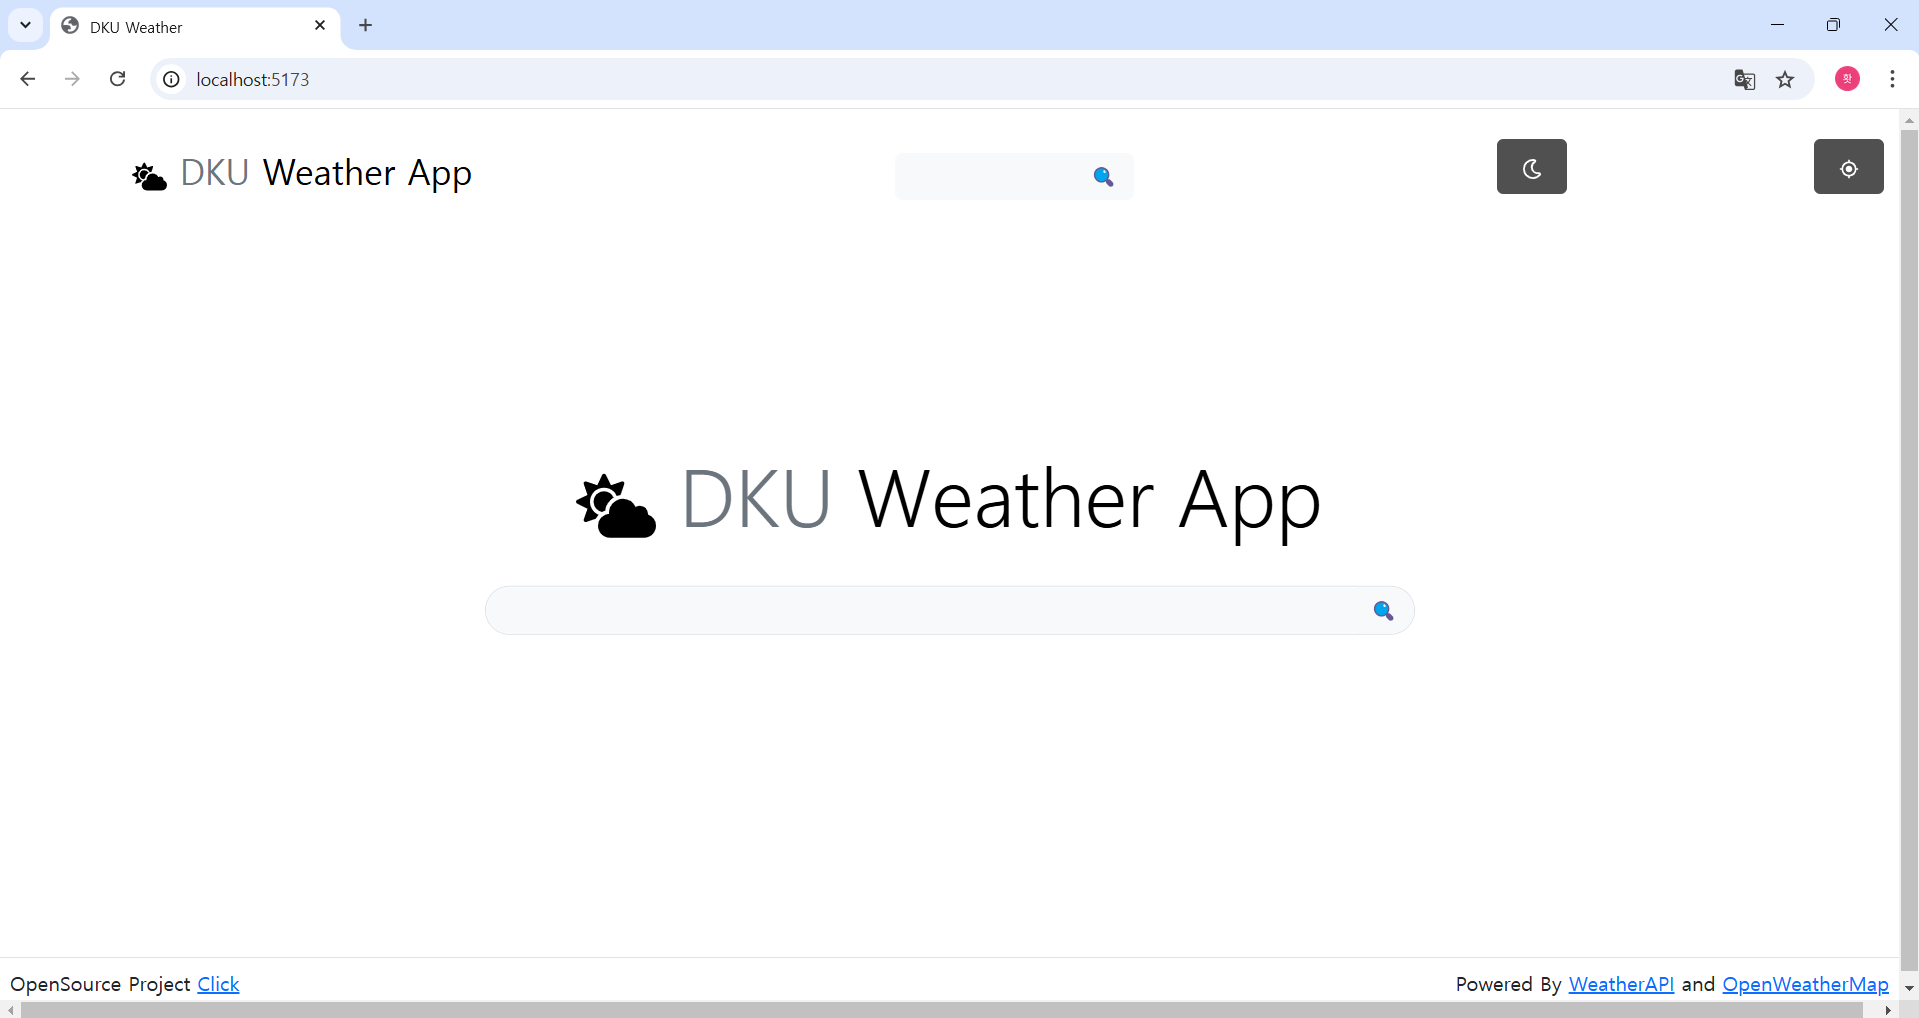
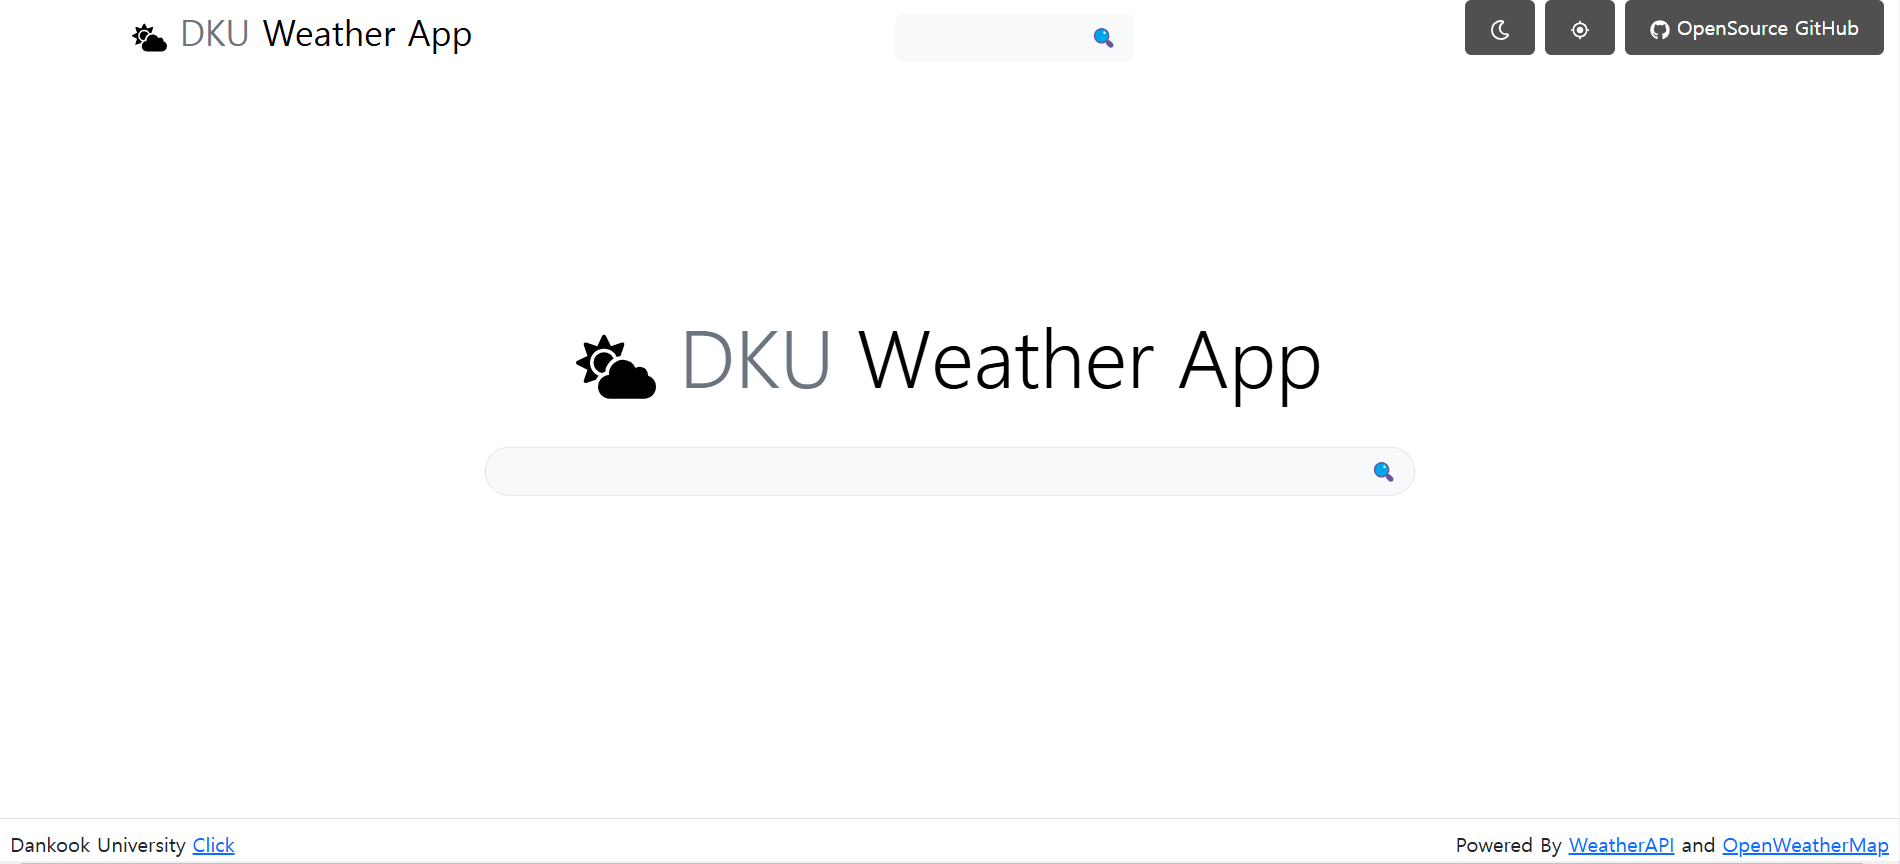
detail

diff --git a/src/App.jsx b/src/App.jsx
@@ -1,3 +1,4 @@
+import { FaGithub } from "react-icons/fa";
 import { MdGpsFixed } from "react-icons/md";
 import { FaRegMoon } from "react-icons/fa";
 import { FaSun } from "react-icons/fa6";
@@ -50,26 +51,40 @@ const App = () => {
 
   return (
     <div className={isDarkMode ? 'app dark-mode' : 'app light-mode'}>
-      {/* Main Row with TopBar and Toggle Button */}
-      <div className="row align-items-center">
-        <div className="col-8">
-          {/* TopBar Component */}
-          <TopBar changeData={(dd) => setDta(dd)} classDetails="d-block" />
-        </div>
+  {/* Main Row with TopBar and Toggle Button */}
+  <div className="row align-items-center">
+    <div className="col-8">
+      {/* TopBar Component */}
+      <TopBar changeData={(dd) => setDta(dd)} classDetails="d-block" />
+    </div>
 
-        <div className="col-2 text-end">
-          {/* Dark/Light Mode Toggle Button */}
-          <button onClick={toggleMode} className="toggle-btn">
-            {isDarkMode ? <FaSun /> : <FaRegMoon />}
-          </button>
-        </div>
+    <div className="col-4 text-end">
+      <div className="d-inline-block me-2">
+        {/* Dark/Light Mode Toggle Button */}
+        <button onClick={toggleMode} className="toggle-btn">
+          {isDarkMode ? <FaSun /> : <FaRegMoon />}
+        </button>
+      </div>
 
-        <div className="col-2 text-end">
-          {/* GPS Button */}
-          <button onClick={fetchWeatherByGPS} className="toggle-btn" disabled={loading}>
-            {loading ? 'Loading...' : <MdGpsFixed />}
-          </button>
-        </div>
+      <div className="d-inline-block me-2">
+        {/* GPS Button */}
+        <button onClick={fetchWeatherByGPS} className="toggle-btn" disabled={loading}>
+          {loading ? 'Loading...' : <MdGpsFixed />}
+        </button>
+      </div>
+
+      <div className="d-inline-block">
+        {/* GitHub Button */}
+        <button
+          onClick={() => window.location.href = 'https://github.com/Minsu4302/OpenSource-Project'}
+          className="toggle-btn"
+        >
+          <FaGithub /> OpenSource GitHub
+        </button>
+      </div>
+    </div>
+
+
       </div>
 
       {dta ? (

diff --git a/index.html b/index.html
@@ -14,7 +14,7 @@
   <div id="mainRoot" class="container-fluid m-auto"></div>
   <div class="border-top row bg-white text-center">
     <p class=" m-lg-2 col-lg text-lg-start">
-      OpenSource Project <a class="link-primary" href="https://github.com/Minsu4302/OSPJ">Click</a>
+      Dankook University <a class="link-primary" href="https://www.dankook.ac.kr/web/kor">Click</a>
     </p>
     <p class="m-lg-2 col-lg text-lg-end">
       Powered By <a class="link-primary" href="https://www.weatherapi.com/" title="Weather API">WeatherAPI</a> and <a

diff --git a/src/App.css b/src/App.css
@@ -81,6 +81,14 @@ body, html {
   transition: background-color 0.3s, color 0.3s;
 }
 
+.light-mode .welcome-box {
+  background-color: #ffffff;
+}
+
+.dark-mode .welcome-box {
+  background-color: #1e1e1e;
+}
+
 .light-mode .left-box {
   background-color: #ffffff;
 }
